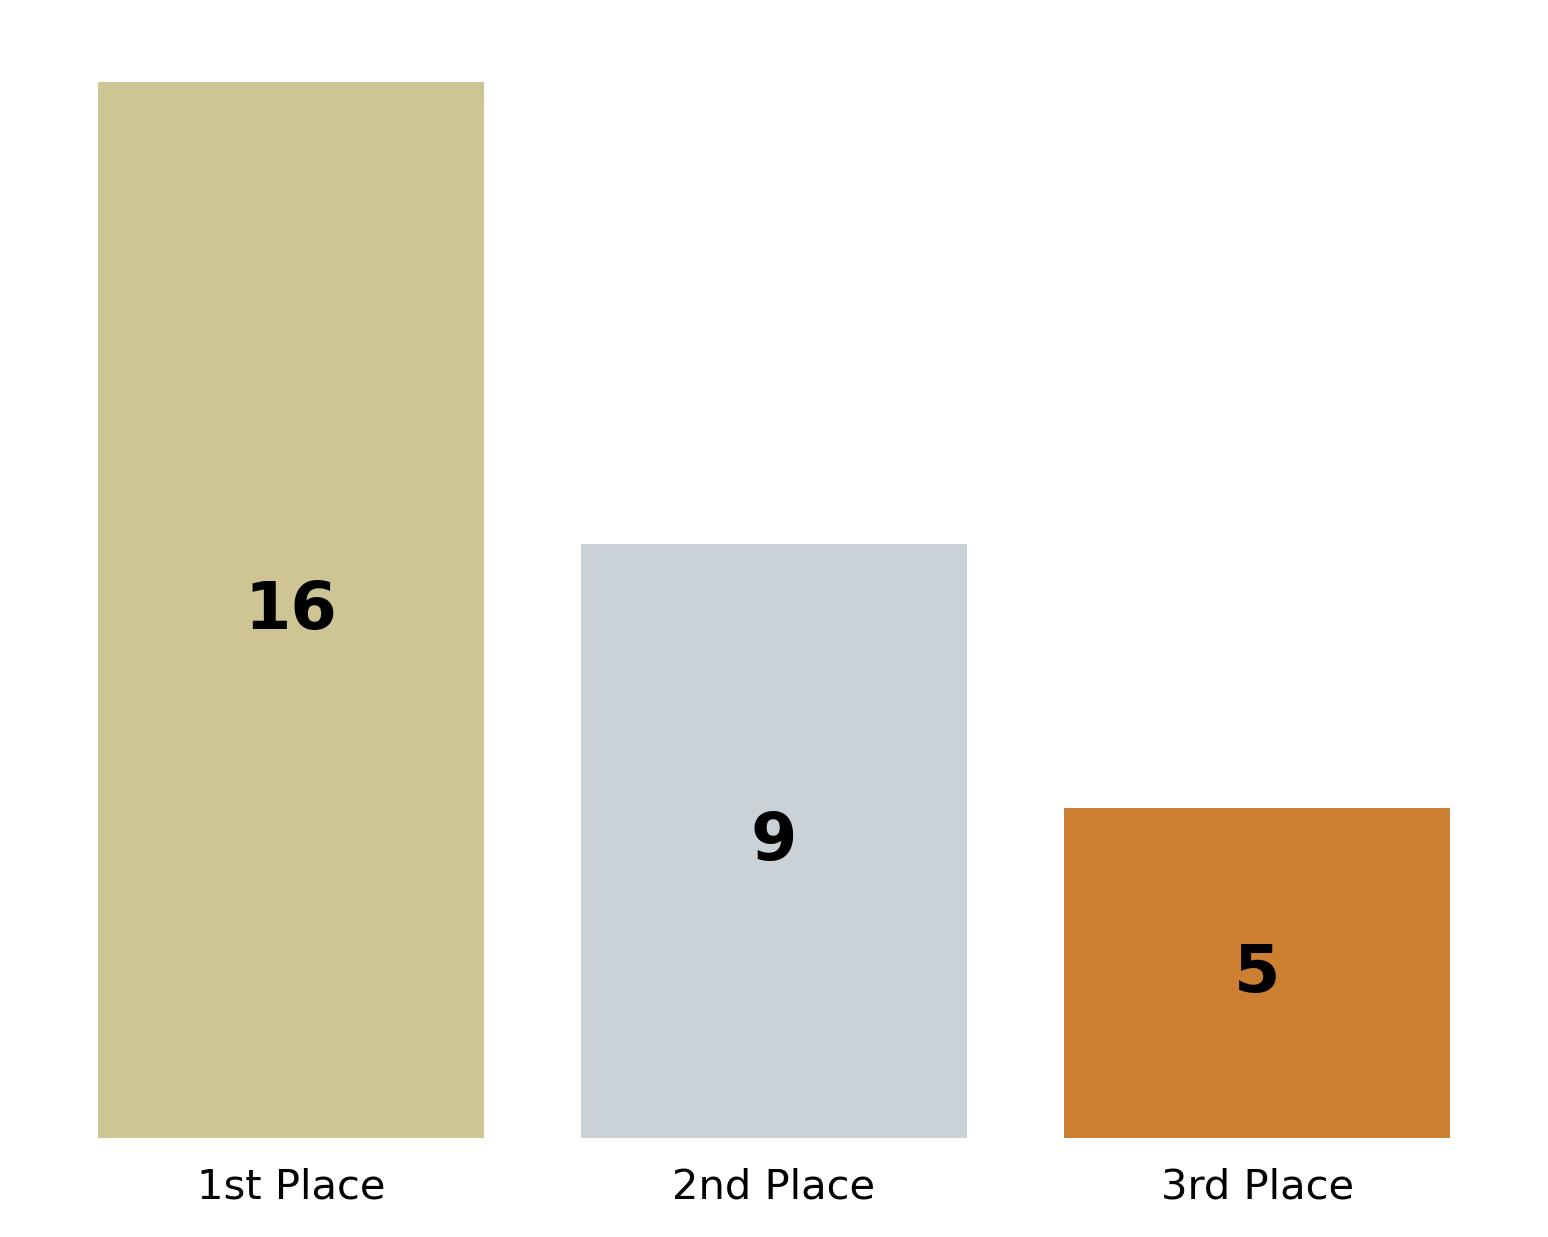
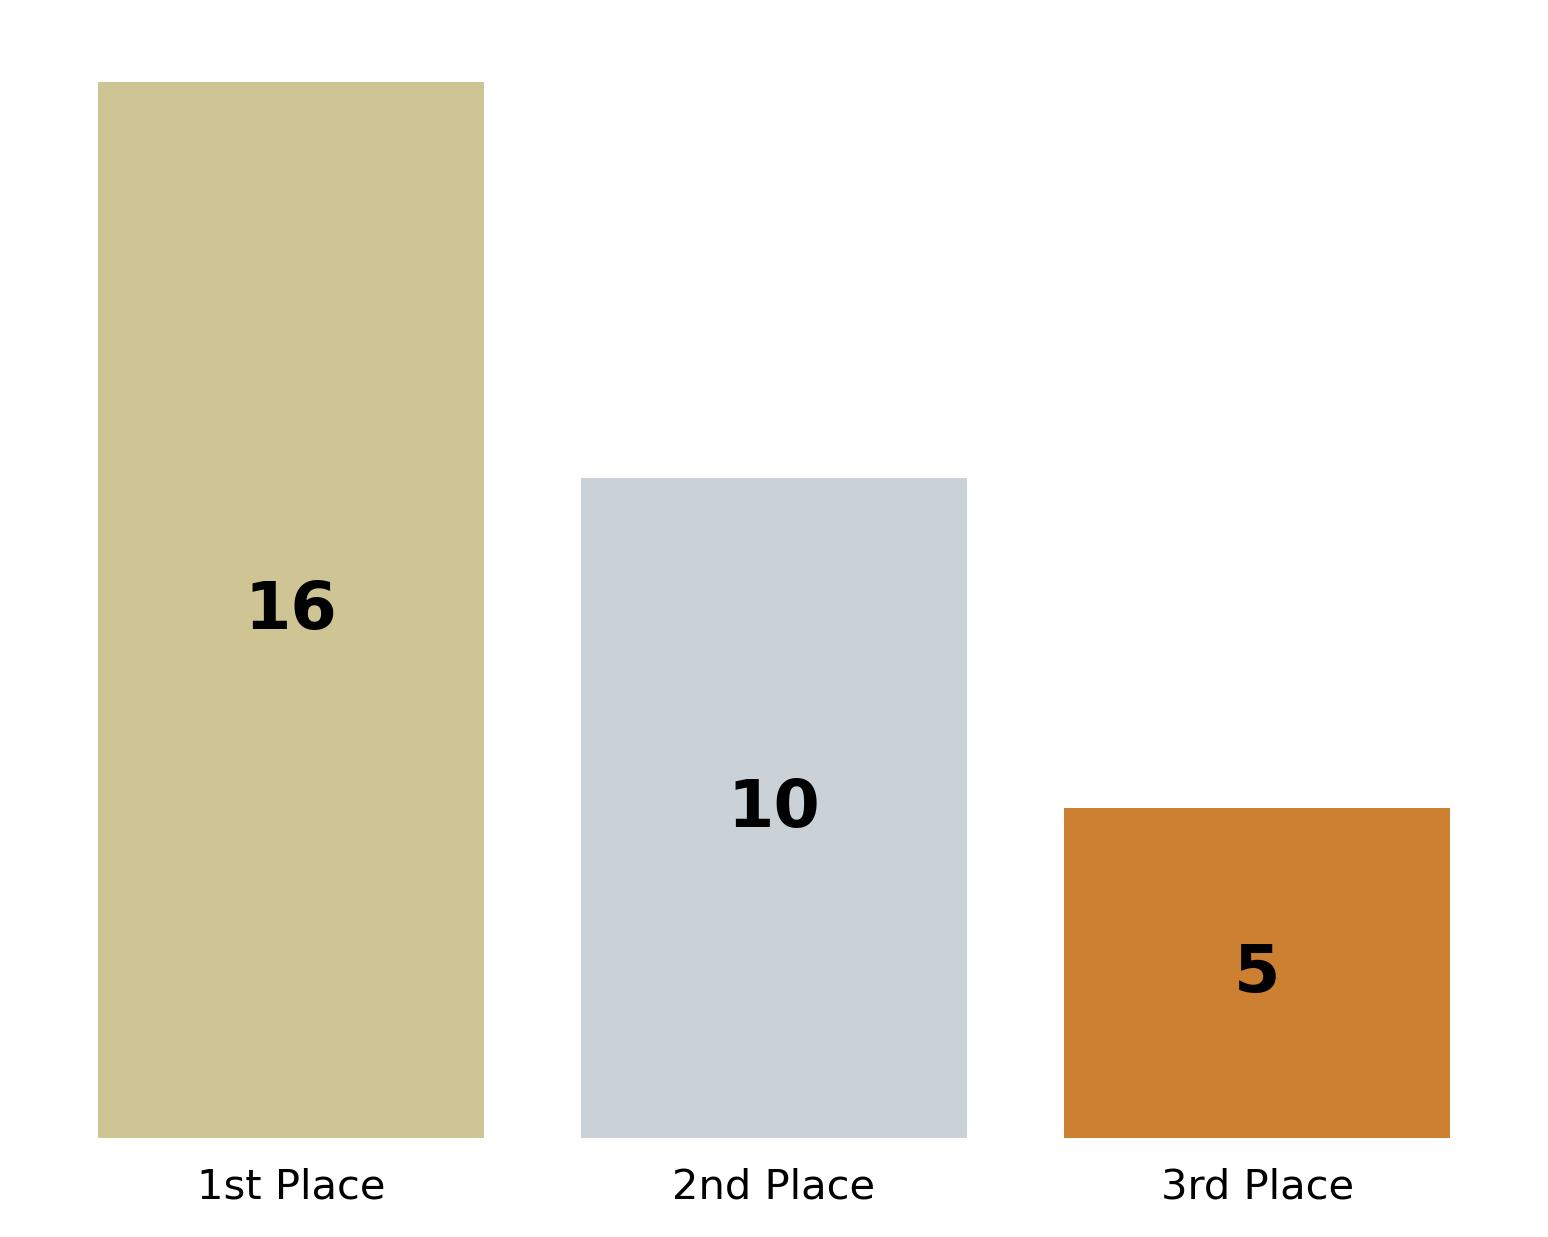
auto commit

Changed region(s): [[0.3721, 0.3686, 0.6512, 0.4608], [0.4651, 0.6144, 0.5271, 0.7065]]

diff --git a/html/wins-table.html b/html/wins-table.html
@@ -111,7 +111,7 @@ details[open] summary::before {
 <p>Click the + sign to expand or collapse the competition year and competiton details below:</p>
 <details>
   <summary>2026<span class="muted"> Victories</span></summary>
-  <table><thead><tr><th>Date</th><th>Competition</th><th>Location</th><th>Placement</th><th>Description</th></tr></thead><tbody><tr><td class="empty" colspan="5">No entries.</td></tr></tbody></table>
+  <table><thead><tr><th>Date</th><th>Competition</th><th>Location</th><th>Placement</th><th>Description</th></tr></thead><tbody><tr><td>Mar 07</td><td><a href="https://www.ncaecybergames.org" target="_blank" rel="noopener noreferrer">NCAE Cybergames 2026</a></td><td>Virtual</td><td>2nd Place</td><td></td></tr></tbody></table>
 </details>
 <details>
   <summary>2025<span class="muted"> Victories</span></summary>
